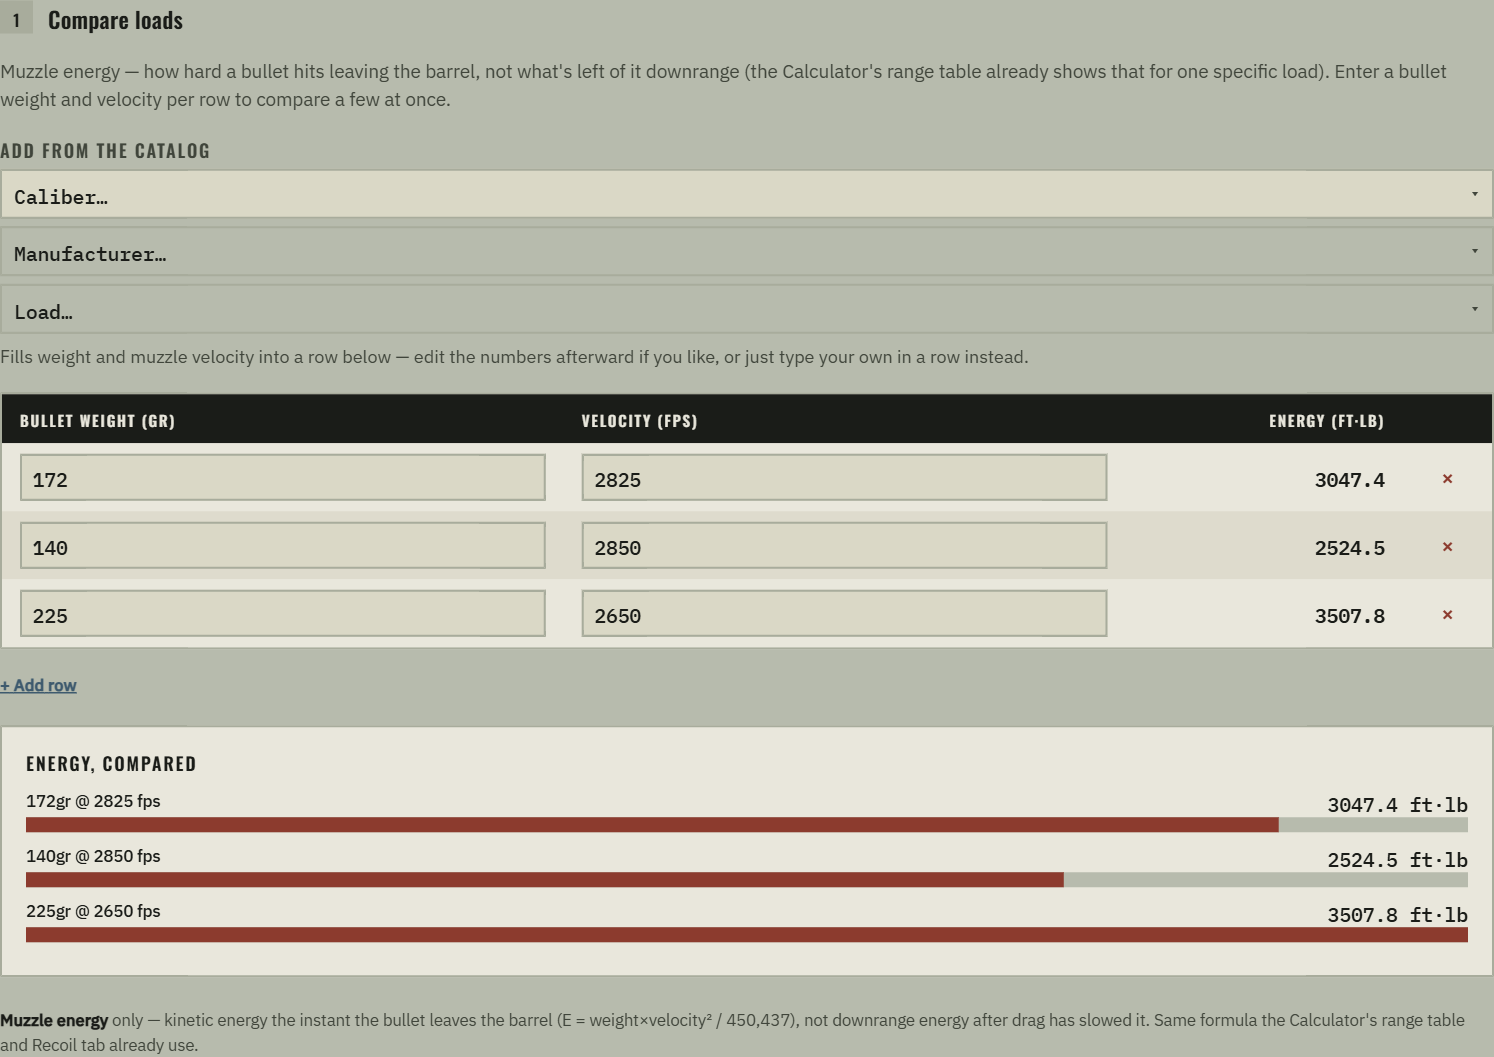
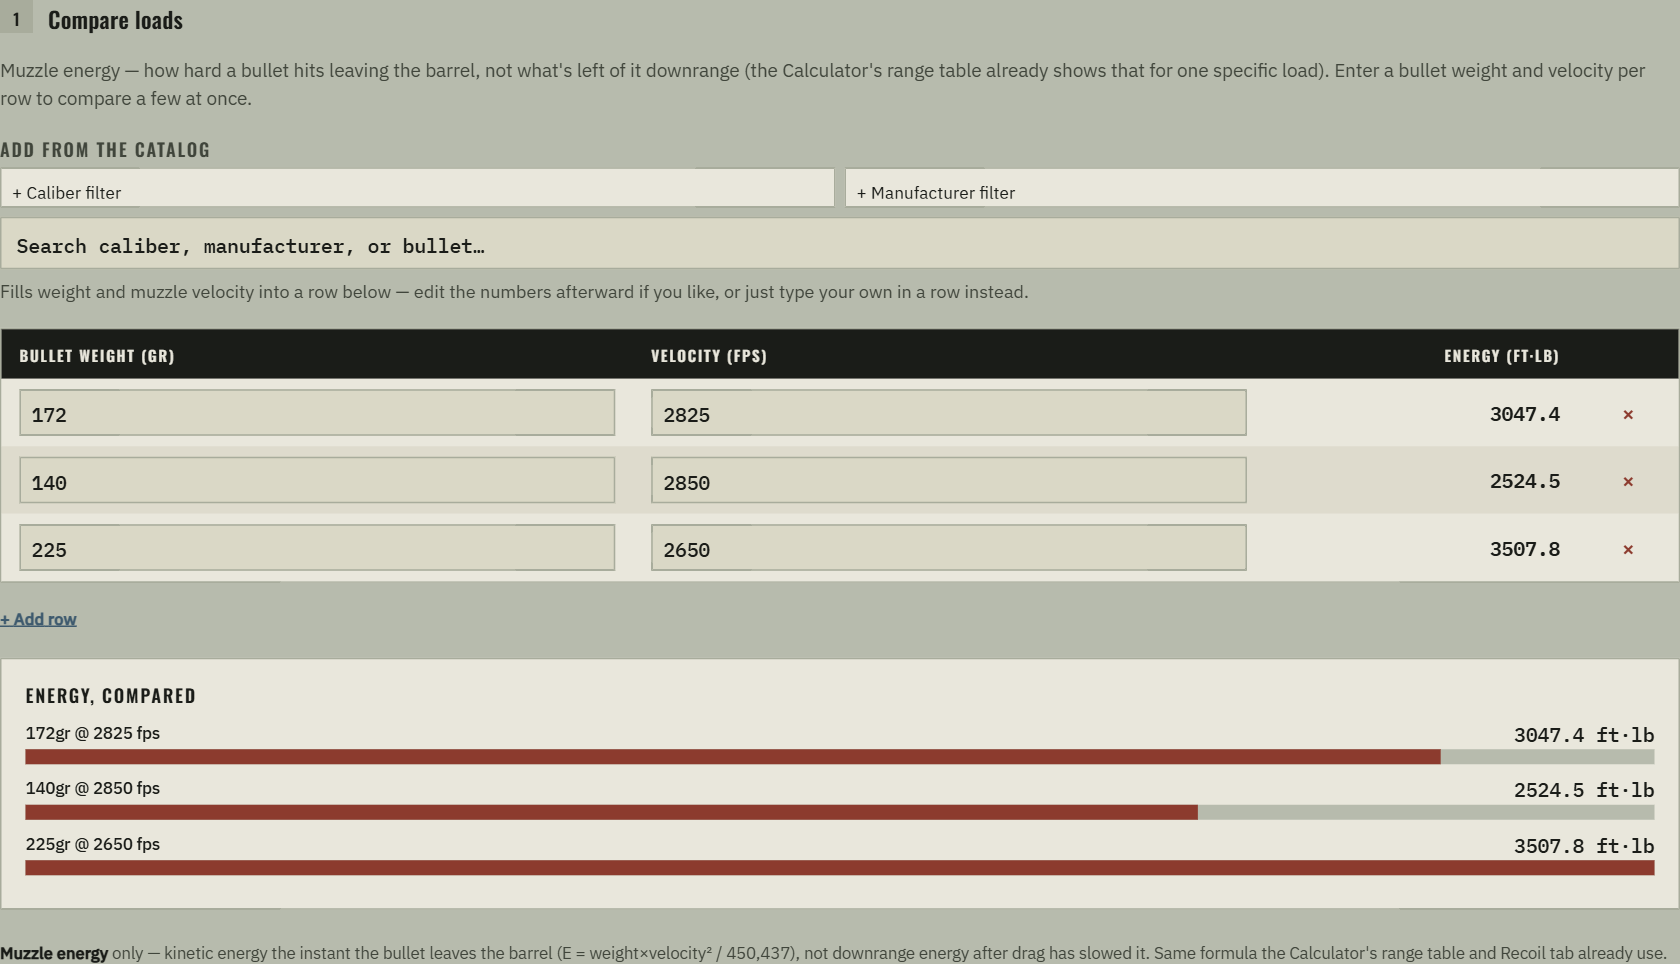
Field Guide: catch up with the first-timer UI changes (#32-#35) (#37)
Quick Start rewritten around the answer line; "Override" is "Edit numbers";
Sights and Shot start open; new answer line, table order, tile labels, hold
and save-confirmation explanations; "dataset" becomes "saved load"; new
trip-ups for the hold direction and a leftover BC; refreshed Calculator,
first-visit form, Optimal Zero and Bullet Energy screenshots.

diff --git a/public/guide/index.html b/public/guide/index.html
@@ -206,36 +206,43 @@
 
   <section id="quickstart">
     <h2>Quick start</h2>
-    <p>The Calculator tab walks the same order every time — pick a load, describe your rifle and
-      target, tell it about the air, then read the chart. Four moves get you a real trajectory:</p>
+    <p>The Calculator tab opens on an example 30-06 load, so you're looking at a real answer before you
+      type anything. To get <em>your</em> answer: pick your ammo, check your zero, then read the
+      sentence at the top of the results. Four moves:</p>
     <div class="steps">
       <div class="step">
         <div class="n">1</div>
         <div><h3>Pick your round</h3><p>Search the catalog by caliber, manufacturer, or bullet name — or
           narrow first with the optional Caliber/Manufacturer filter chips — to pull real muzzle velocity,
           weight, and BC. Or type your own numbers for a handload. A catalog pick locks into one summary
-          line ("172gr @ 2825 fps · G7 0.265") with an Override link if you need to edit it.</p></div>
+          line ("172gr @ 2825 fps · G7 0.265") with an "Edit numbers" link if you need to change it.</p></div>
       </div>
       <div class="step">
         <div class="n">2</div>
-        <div><h3>Set your rig</h3><p>Sight height over bore, zero range, and vitals radius describe
-          <em>your</em> rifle and target — the catalog can't fill these in for you.</p></div>
+        <div><h3>Check your zero</h3><p>Sight height over bore and zero range (both under "The sights," open
+          from the start) describe <em>your</em> rifle — the catalog can't fill these in for you. Your
+          target's vitals radius lives just below, folded until you want it.</p></div>
       </div>
       <div class="step">
         <div class="n">3</div>
-        <div><h3>Read the chart</h3><p>The summary strip and flight-path chart update live: velocity
-          and energy at distance, where it goes subsonic, and how far you can hold dead-on.</p></div>
+        <div><h3>Read the sentence at the top</h3><p>A plain-English line leads the results: "Zeroed at 200 yd, at
+          300 yd your bullet lands 7.4 in (2.4 MOA) below where you aimed… To hit your aim point, hold up
+          2.4 MOA." Pick any distance from its dropdown. The speed, energy, and height tiles under it, the
+          chart, and the table all follow.</p></div>
       </div>
       <div class="step">
         <div class="n">4</div>
         <div><h3>Name and save it</h3><p>The name field suggests one for you (from the catalog pick, or
-          from grains/velocity/BC for a custom load) — keep it or rename it. One save reuses the whole
-          setup in Compare and Optimal Zero, no retyping the same load twice.</p></div>
+          from grains/velocity/BC for a custom load) — keep it or rename it. After you save, a "✓ Saved"
+          line tells you where it went: "Or open one of your saved loads," also used by Compare and
+          Optimal Zero, so you never retype the same load twice.</p></div>
       </div>
     </div>
-    <figure class="shot" style="max-width:420px;">
-      <img src="images/picker-search.png" alt="Calculator's Step 1 load picker: a single search box reading '6.5 creed' with live matching results below it, optional Caliber and Manufacturer filter chips above, and Steps 2 through 6 already folded to one-line summaries.">
-      <figcaption>Step 1 stays open on a first visit, everything below it starts folded. The catalog picker is one search box — type a caliber, manufacturer, or bullet name — with optional filter chips if you want to narrow first.</figcaption>
+    <p>On your very first visit a short "New here?" note repeats that path; tap "Got it" and it
+      doesn't come back.</p>
+    <figure class="shot" style="max-width:340px;">
+      <img src="images/first-visit-form.png" alt="Calculator's input form on a first visit: Step 1 (The load) open with the catalog search box, Caliber and Manufacturer filter chips, a locked 172gr 2825 fps G7 0.265 summary with an Edit numbers link, a suggested load name and Save button; Step 2 (The sights) and Step 4 (The shot) open; The target, The air, The wind, and Spin drift and Coriolis folded to one-line summaries.">
+      <figcaption>What the form looks like on a first visit: "The load," "The sights," and "The shot" start open; "The target," "The air," "The wind," and "Spin drift &amp; Coriolis" start folded to a one-line summary. Click any header to open it; the "Collapse all" / "Expand all" link at the top flips every section at once — real state from the live app, not a mockup.</figcaption>
     </figure>
   </section>
 
@@ -250,6 +257,8 @@
         <p class="muted" style="margin:0;font-size:13.5px;">The main tool — one load, one full trajectory,
           zeroed at a distance you choose.</p>
         <ul>
+          <li>Leads with a plain-English "answer line": where your bullet lands at the distance you pick,
+            and what to hold to hit your aim point — including a left/right hold once wind is in.</li>
           <li>Chart shows drop <em>from your line of sight</em>, not the bore — matches what you'd
             actually see through a scope.</li>
           <li>Chart overlays: Vitals Zero band and Optimal Sight-in are on by default; Leupold BAS is opt-in.</li>
@@ -266,7 +275,7 @@
         <p class="muted" style="margin:0;font-size:13.5px;">Overlays two or more saved loads on one
           chart and one table, so different rounds or rifles actually stack up against each other.</p>
         <ul>
-          <li>Needs at least one saved dataset from Calculator first — or add straight from the catalog.</li>
+          <li>Needs at least one saved load from Calculator first — or add straight from the catalog.</li>
           <li>"Compare at" sets the one distance the table reads out at.</li>
           <li>Draws one Vitals band per distinct radius among the loads you've picked.</li>
         </ul>
@@ -340,8 +349,10 @@
         <p class="muted" style="margin:0;font-size:13.5px;">In-app how-tos, an FAQ, and a direct line
           to send an idea or report something wrong.</p>
         <ul>
-          <li>Every tab links straight to its own section here — "How does {tab} work?"</li>
-          <li>"Suggest an idea" opens a prefilled email — no account or form to fill out.</li>
+          <li>Every tab links straight to its own section here — "How does {tab} work?" (on a phone that
+            first link shortens to "How it works").</li>
+          <li>"Suggest an idea" opens a prefilled email — no account or form to fill out. On a phone it's
+            tucked out of the top link row and lives only here in Help.</li>
         </ul>
         <div class="watch"><b>Watch for</b>This guide covers the same ground in more depth — the in-app
           Help tab is the faster lookup while you're mid-form.</div>
@@ -355,8 +366,8 @@
     <p>Real state pulled straight from the live app — not mockups.</p>
     <div class="shots">
       <figure class="shot">
-        <img src="images/calculator.png" alt="Calculator tab showing a 30-06 Springfield trajectory: summary strip, flight-path chart with the Vitals Zero band and Optimal Sight-in overlays on, and a range table.">
-        <figcaption><b>Calculator</b> — the summary strip, flight-path chart, and range table for one load. Vitals Zero and Optimal Sight-in are on by default, so the chart already shows the vitals band and the "optimal sight-in" readout (241yd zero → 283yd window) alongside this load's own 200yd-zero window (251yd).</figcaption>
+        <img src="images/calculator.png" alt="Calculator results for a 30-06 Springfield load zeroed at 200 yd with a 10 mph wind from 3 o'clock: an answer line reading 'Zeroed at 200 yd, at 300 yd your bullet lands 7.4 in (2.4 MOA) below where you aimed. It also lands 5.9 in (1.9 MOA) to the left of where you aimed. To hit your aim point, hold up 2.4 MOA and right 1.9 MOA', speed, energy, and height tiles for 300 yd, the flight-path chart with the Vitals Zero and Optimal Sight-in overlays on, and a range table with Height and Windage columns.">
+        <figcaption><b>Calculator</b> — the answer line leads: at 300&nbsp;yd, with a 10&nbsp;mph wind from 3&nbsp;o'clock, this load lands 7.4&nbsp;in low and 5.9&nbsp;in left, so you hold up 2.4&nbsp;MOA and right 1.9&nbsp;MOA. The tiles, chart, and table underneath follow the distance you picked. Vitals Zero and Optimal Sight-in are on by default, so the chart already shows the vitals band and the "optimal sight-in" readout (241yd zero → 283yd window) alongside this load's own 200yd-zero window (251yd).</figcaption>
       </figure>
       <figure class="shot">
         <img src="images/compare.png" alt="Compare tab overlaying two 30-06 loads zeroed at 200yd and 300yd, with a table of muzzle velocity, energy, and downrange figures.">
@@ -392,7 +403,7 @@
         <div class="li"><span class="swatch dot"></span><span><strong>Open dot</strong> — a zero
           crossing (near or far).</span></div>
         <div class="li"><span class="swatch dotfill"></span><span><strong>Filled dot</strong> — max
-          ordinate, the highest point above the line of sight.</span></div>
+          ordinate, the highest point above the line of sight (the results tile calls it "Peak height").</span></div>
         <div class="li"><span class="swatch t"></span><span><strong>Brass shading</strong> — transonic
           band, Mach 1.2 down to 1.0, where drag gets unpredictable.</span></div>
         <div class="li"><span class="swatch s"></span><span><strong>Ox shading</strong> — subsonic,
@@ -401,13 +412,19 @@
           the span where impact stays within your vitals radius of point of aim.</span></div>
       </div>
     </div>
-    <p style="margin-top:14px;">The range table underneath lists velocity, energy, and drop at every
-      step distance you set, plus a <strong>windage</strong> column once wind, spin drift, or Coriolis
-      is actually in effect — the footnote below the chart always says which of the three, if any, are
-      on. Turn on the <strong>MOA</strong> / <strong>MIL</strong> columns to
-      get holdover in scope-click units instead of inches. <strong>Print dope chart</strong> opens your
-      browser's print dialog with a clean printable card — pick "Save as PDF" as the destination to
-      keep one in your range bag.</p>
+    <p style="margin-top:14px;">Above the chart, the <strong>answer line</strong> says in one sentence where
+      your bullet lands at the distance you pick and what to hold to hit your aim point — in MOA by
+      default (MIL in Metric, or if only MIL is ticked). On a steep shot (5° or more, up or down) it says
+      those numbers are for a level shot and gives the distance to hold for instead.</p>
+    <p>The range table underneath lists <strong>height</strong>, then a <strong>windage</strong>
+      column once wind, spin drift, or Coriolis is actually in effect — the footnote below the chart
+      always says which of the three, if any, are on — then velocity, energy, time, and Mach at every
+      step distance you set. A legend line under the "Range" heading spells out the signs: a minus height
+      is below where you aimed, and an L or R windage is the side the bullet lands on. Turn on the
+      <strong>MOA</strong> / <strong>MIL</strong> columns to get holdover in scope-click units instead of
+      inches — each appears right beside the height or windage it converts. <strong>Print dope
+      chart</strong> opens your browser's print dialog with a clean printable card — pick "Save as PDF"
+      as the destination to keep one in your range bag.</p>
   </section>
 
   <section id="glossary">
@@ -428,7 +445,11 @@
           <tr><td><a href="https://ballisticnerd.com/#help/faq" target="_blank" rel="noopener">Zero</a></td><td>The distance where your point of impact crosses your line of sight.
             A trajectory usually has two: a near zero (rising) and a far zero (falling back through).</td></tr>
           <tr><td><a href="https://ballisticnerd.com/#help/calculator" target="_blank" rel="noopener">Max ordinate</a></td><td>The highest point the bullet reaches above your line of sight —
-            the top of the arc.</td></tr>
+            the top of the arc. The results tile calls it "Peak height."</td></tr>
+          <tr><td><a href="https://ballisticnerd.com/#help/calculator" target="_blank" rel="noopener">Hold / holdover</a></td><td>Aiming off on purpose to cancel drop or wind: "hold up 2.4 MOA and right 1.9 MOA"
+            means aim that far above and to the right of where you want to hit. The answer line at the
+            top of the Calculator's results works it out for you — the opposite direction from where the
+            bullet lands.</td></tr>
           <tr><td><a href="https://ballisticnerd.com/#help/faq" target="_blank" rel="noopener">Vitals radius / window</a></td><td>Radius is the half-width of the vital zone you're
             trying to stay inside (smaller for varmints, bigger for elk or moose). The window is how
             far out you can hold dead-on and still land inside it, given your current zero.</td></tr>
@@ -436,15 +457,16 @@
             possible — the ballistics-nerd version of "how far can I just hold center."</td></tr>
           <tr><td><a href="https://ballisticnerd.com/#help/calculator" target="_blank" rel="noopener">MOA / MIL</a></td><td>Angular units scopes dial in. 1 MOA ≈ 1.047in per 100yd; 1 MIL =
             3.6in per 100yd. Letting the table show holdover in these instead of raw inches matches
-            what's printed on your turret.</td></tr>
+            what's printed on your turret. The answer line quotes your hold in MOA by default, in MIL
+            if you're in Metric or only MIL is ticked.</td></tr>
           <tr><td><a href="https://ballisticnerd.com/#help/faq" target="_blank" rel="noopener">Transonic / subsonic</a></td><td>Transonic is the messy zone around Mach 1.2–1.0, where
             drag behavior gets less predictable as the bullet slows through the sound barrier.
             Subsonic is everything past Mach 1.0.</td></tr>
           <tr><td><a href="https://ballisticnerd.com/#help/calculator" target="_blank" rel="noopener">Station pressure</a></td><td>The actual, un-adjusted air pressure where you're standing
             — not the sea-level-corrected number a weather report usually gives you.</td></tr>
           <tr><td>Shot angle</td><td>Steep uphill or downhill shots carry less effective drop than the
-            slant range suggests — this advisory line converts your slant distance to what it holds
-            like on a flat shot (the "rifleman's rule").</td></tr>
+            slant range suggests. On a steep shot the answer line says its numbers are for a level
+            shot and names the shorter distance to hold for instead (the "rifleman's rule").</td></tr>
           <tr><td><a href="https://ballisticnerd.com/#help/calculator" target="_blank" rel="noopener">Twist rate</a></td><td>How fast your barrel's rifling spins the bullet, e.g. "1 turn in 8in." Needed,
             along with bullet length and diameter, to turn on spin drift — leave any one of the three
             blank and spin drift stays off.</td></tr>
@@ -473,10 +495,18 @@
   <section id="tripups">
     <h2>Where people get tripped up</h2>
     <div class="trip">
-      <div class="t">Sights, Target, Shot, Air, and Wind look empty on your first visit</div>
-      <div class="d">They're not missing, just collapsed — only "The load" starts open, so the form
-        doesn't read as a wall of fields the first time you land on Calculator. Click any header to
-        expand it (or "Expand all" at the top), and the app remembers your choice after that.</div>
+      <div class="t">"The target," "The air," "The wind," and "Spin drift &amp; Coriolis" look empty on your first visit</div>
+      <div class="d">They're not missing, just folded to a one-line summary — "The load," "The sights," and
+        "The shot" start open, since those are the ones almost everyone needs, so the form doesn't read
+        as a wall of fields the first time you land on Calculator. Click any header to open (or fold) a
+        section, and the app remembers your choice on this device after that.</div>
+    </div>
+    <div class="trip">
+      <div class="t">The sentence tells you where the bullet lands — then what to hold, the opposite way</div>
+      <div class="d">"Your bullet lands 7.4 in below where you aimed… hold up 2.4 MOA" is one instruction
+        in two halves: the first half describes the miss, the last sentence is what to dial or hold to
+        fix it. A bullet that lands low or left needs a hold that's high or right. If you only read one
+        part, read the last sentence.</div>
     </div>
     <div class="trip">
       <div class="t">G1 and G7 BCs aren't interchangeable</div>
@@ -497,15 +527,24 @@
         across devices instead.</div>
     </div>
     <div class="trip">
-      <div class="t">Loading a saved dataset doesn't touch your rig</div>
-      <div class="d">A saved dataset carries its own sight height, zero, and conditions from whenever
+      <div class="t">Opening a saved load doesn't touch your rig</div>
+      <div class="d">A saved load carries its own sight height, zero, and conditions from whenever
         you saved it. Your shared "rig" (used by Calculator and Optimal Zero) only changes when you
         explicitly save or reset it.</div>
     </div>
     <div class="trip">
       <div class="t">"Fill from standard atmosphere" doesn't stack</div>
       <div class="d">It sets temperature and pressure directly from the altitude you entered — it
-        doesn't add to whatever you already typed. Enter altitude first, then click it.</div>
+        doesn't add to whatever you already typed in those two fields. In the Calculator, altitude is the first field in
+        "The air": type it, then tap the button.</div>
+    </div>
+    <div class="trip">
+      <div class="t">Typing a different bullet weight doesn't change the BC</div>
+      <div class="d">If you start from a catalog pick and change the bullet weight or drag model but leave
+        the BC alone, the BC is still the original bullet's — so an amber "Heads up" note appears beside
+        it naming the load it came from. Enter your own bullet's BC (it's on the box or the maker's
+        site), or pick your ammo from the catalog instead. Changing only the velocity doesn't trigger
+        the note, since the BC still fits.</div>
     </div>
     <div class="trip">
       <div class="t">Spin drift needs all three of its fields, not just one</div>
@@ -547,7 +586,7 @@
       <summary>Does it support metric?</summary>
       <p>Yes — the Imperial/Metric toggle at the top applies everywhere. Everything is computed
         internally in imperial units and converted only for display and input, so switching back and
-        forth never loses precision.</p>
+        forth never loses precision. In Metric the answer line quotes your hold in MIL rather than MOA.</p>
     </details>
     <details>
       <summary>Where does the estimated powder charge on the Recoil tab come from?</summary>
@@ -594,7 +633,9 @@
     <details>
       <summary>Does the wind field use compass or clock directions?</summary>
       <p>Clock face, relative to you: 12 is straight into your face, 3 is your right cheek, 6 is at
-        your back, 9 is your left cheek. Leave wind speed blank for a no-wind trajectory.</p>
+        your back, 9 is your left cheek. Wind only counts once both a speed and a direction are filled in —
+        enter just one and a note under the fields (and in the footer) says so; leave both blank for a
+        no-wind trajectory.</p>
     </details>
   </section>
 
